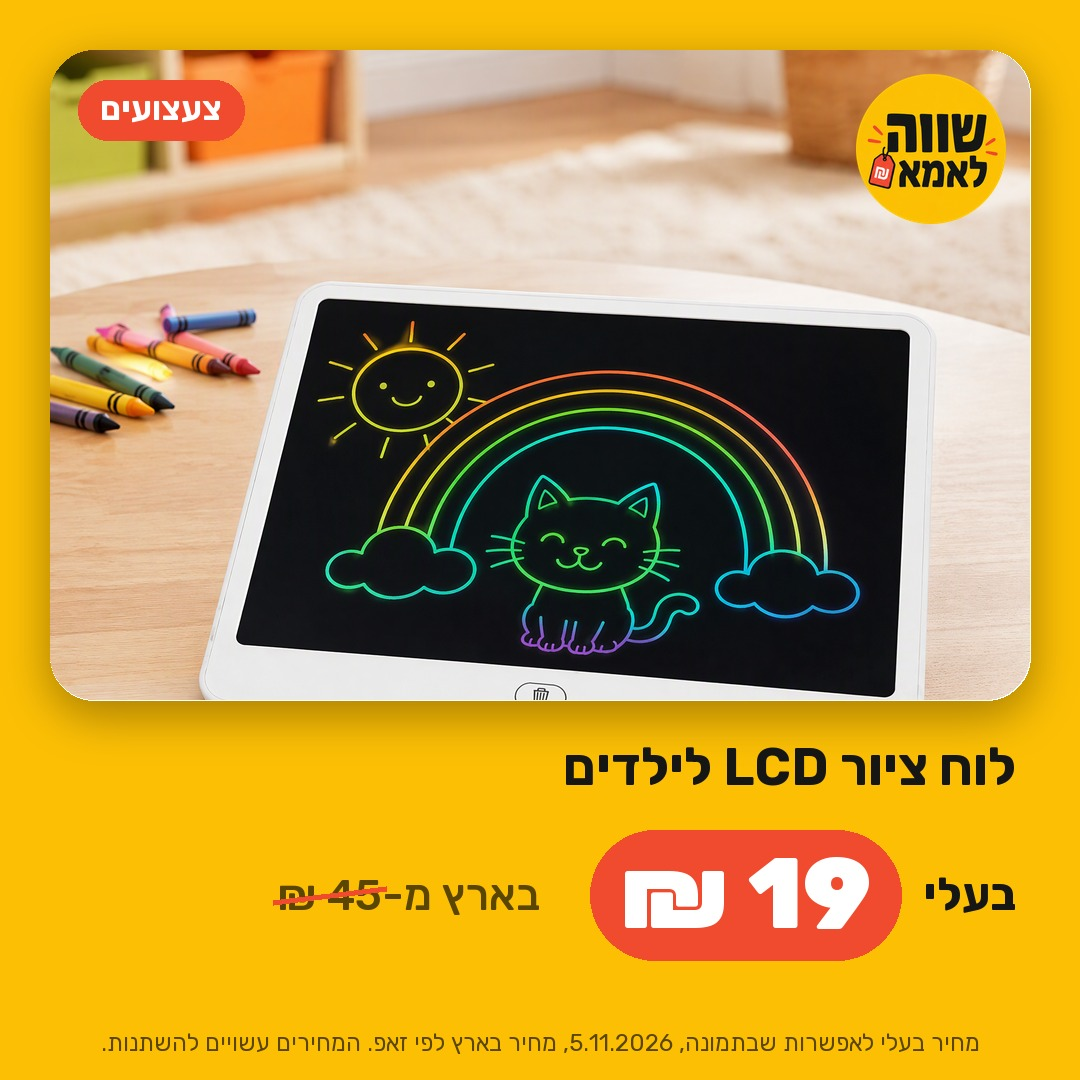
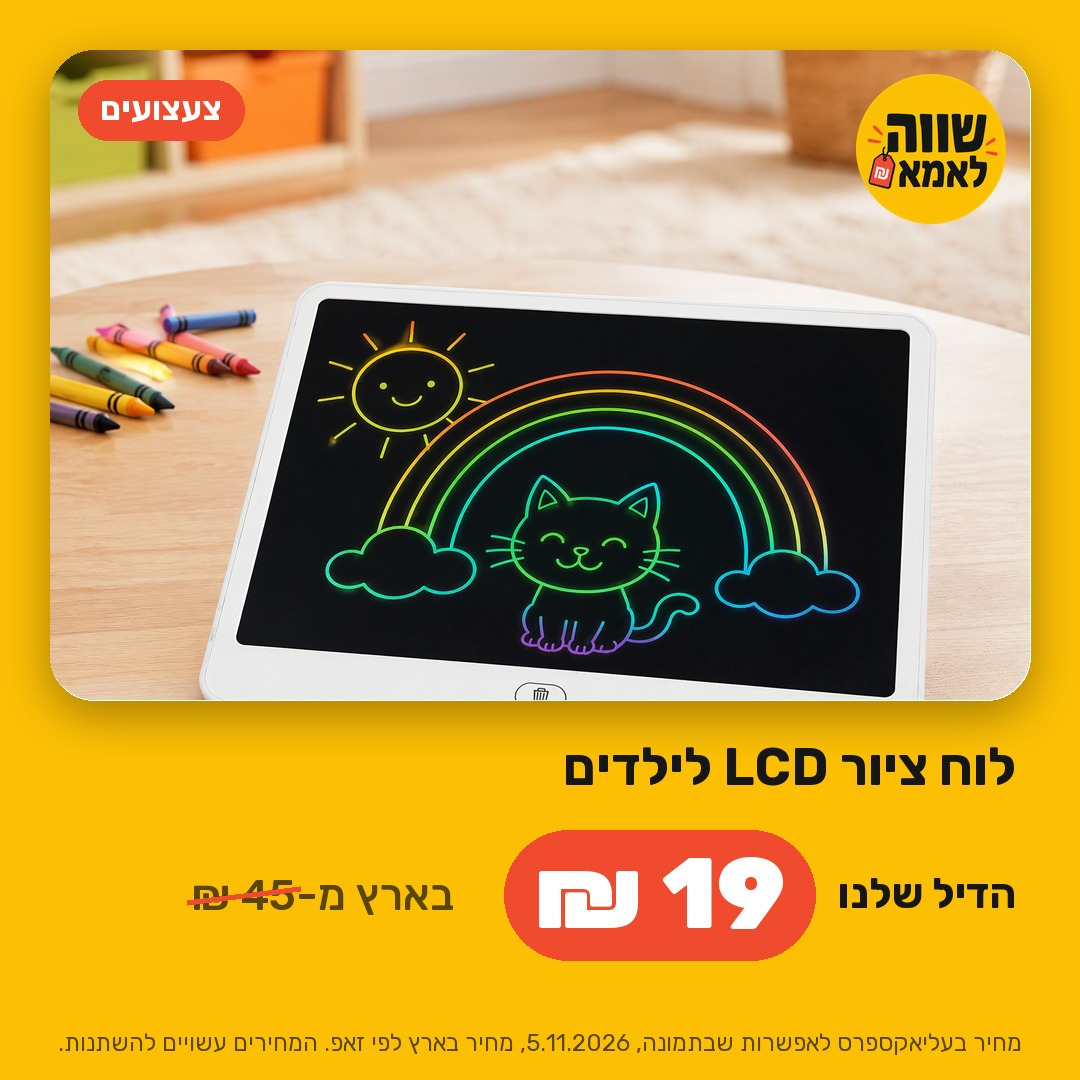
Store-neutral brand copy: הדיל שלנו instead of בעלי, generic store disclosure
Deals will also come from stores other than AliExpress. Homepage, /join, /join-b, /deals and the
/guide example post now use הדיל שלנו / אונליין; per-deal buy lines still name the real store.

Claude-Session: https://claude.ai/code/session_014xAJSXDDb9xLF4ARjncj2H

Changed region(s): [[0.1528, 0.7639, 0.9472, 0.9167], [0.0611, 0.9472, 0.9472, 0.9778]]

diff --git a/deals/index.html b/deals/index.html
@@ -1,7 +1,7 @@
 <!doctype html><html lang="he" dir="rtl"><head><meta charset="utf-8">
 <meta name="viewport" content="width=device-width,initial-scale=1,viewport-fit=cover">
 <title>כל הדילים | שווה לאמא</title>
-<meta name="description" content="כל הדילים שפרסמנו בקבוצת שווה לאמא: המחיר בארץ מול המחיר בעליאקספרס, במקום אחד.">
+<meta name="description" content="כל הדילים שפרסמנו בקבוצת שווה לאמא: המחיר בארץ מול הדיל שלנו, במקום אחד.">
 <meta name="theme-color" content="#FCBF04"><link rel="icon" href="../img/icon.png">
 <link rel="preconnect" href="https://fonts.googleapis.com"><link rel="preconnect" href="https://fonts.gstatic.com" crossorigin>
 <link rel="stylesheet" href="https://fonts.googleapis.com/css2?family=Rubik:wght@400;500;600;700;800;900&display=swap">
@@ -60,65 +60,65 @@ var h=a.getAttribute('href');if(!h||h.charAt(0)==='#'||ev.metaKey||ev.ctrlKey)re
 <main class="grid" id="grid"><article class="card" data-t="לתינוק" data-il="" data-q="מצלמת תינוק wifi שמתברגת לבית מנורה לתינוק">
 <img src="img/2026-11-08-ima-1.jpg" alt="מצלמת תינוק WiFi שמתברגת לבית מנורה" loading="lazy" width="600" height="600">
 <div class="body"><div class="meta"><span class="tag">לתינוק</span><span>פורסם 08.11</span></div>
-<h2 class="name">מצלמת תינוק WiFi שמתברגת לבית מנורה</h2><p class="il">בייבי מוניטור עם מסך בארץ: מ-249 ₪</p><p class="ali">בעלי: 27 ₪<small>מחיר רגיל לאפשרות הזולה, בזמן הפרסום</small></p>
+<h2 class="name">מצלמת תינוק WiFi שמתברגת לבית מנורה</h2><p class="il">בייבי מוניטור עם מסך בארץ: מ-249 ₪</p><p class="ali">הדיל שלנו: 27 ₪<small>מחיר רגיל לאפשרות הזולה, בזמן הפרסום</small></p>
 <details><summary>למה בחרנו ומה לבדוק</summary><p>✅ 98% ביקורות חיוביות, יותר מ-1,000 נמכרו, מעקב תנועה ודיבור דו כיווני</p><p>⚠ זו מצלמה שמתברגת לבית מנורה רגיל (E27) ועובדת דרך אפליקציה בטלפון, אין מסך נפרד כמו בבייבי מוניטור. צריך WiFi בבית.</p></details>
 <a class="buy" href="https://s.click.aliexpress.com/e/_c4DT88Fz" target="_blank" rel="sponsored nofollow noopener" data-deal="מצלמת תינוק WiFi שמתברגת לבית מנורה">לקנייה בעליאקספרס</a></div></article><article class="card" data-t="אמבטיה" data-il="" data-q="מגבת קפוצ׳ון לתינוק אמבטיה">
 <img src="img/2026-11-08-ima-2.jpg" alt="מגבת קפוצ׳ון לתינוק" loading="lazy" width="600" height="600">
 <div class="body"><div class="meta"><span class="tag">אמבטיה</span><span>פורסם 08.11</span></div>
-<h2 class="name">מגבת קפוצ׳ון לתינוק</h2><p class="il">מגבות קפוצ׳ון לתינוק בארץ: מ-68 ₪</p><p class="ali">בעלי: 20 ₪<small>מחיר רגיל לאפשרות הזולה, בזמן הפרסום</small></p>
+<h2 class="name">מגבת קפוצ׳ון לתינוק</h2><p class="il">מגבות קפוצ׳ון לתינוק בארץ: מ-68 ₪</p><p class="ali">הדיל שלנו: 20 ₪<small>מחיר רגיל לאפשרות הזולה, בזמן הפרסום</small></p>
 <details><summary>למה בחרנו ומה לבדוק</summary><p>✅ 96.8% ביקורות חיוביות, בד רך עם כובע בצורת חיה</p><p>⚠ יש כמה דגמים וגדלים, המחיר לאפשרות הזולה. לבדוק את המידה לפני שמוסיפים לעגלה.</p></details>
 <a class="buy" href="https://s.click.aliexpress.com/e/_c4oUI4vt" target="_blank" rel="sponsored nofollow noopener" data-deal="מגבת קפוצ׳ון לתינוק">לקנייה בעליאקספרס</a></div></article><article class="card" data-t="האכלה" data-il="" data-q="כוס שתייה עם קש וידיות mamijoy האכלה">
 <img src="img/2026-11-08-ima-3.jpg" alt="כוס שתייה עם קש וידיות MAMIJOY" loading="lazy" width="600" height="600">
 <div class="body"><div class="meta"><span class="tag">האכלה</span><span>פורסם 08.11</span></div>
-<h2 class="name">כוס שתייה עם קש וידיות MAMIJOY</h2><p class="il">בקבוקי שתייה לילדים בארץ: מ-55 ₪</p><p class="ali">בעלי: 15 ₪<small>מחיר רגיל לאפשרות הזולה, בזמן הפרסום</small></p>
+<h2 class="name">כוס שתייה עם קש וידיות MAMIJOY</h2><p class="il">בקבוקי שתייה לילדים בארץ: מ-55 ₪</p><p class="ali">הדיל שלנו: 15 ₪<small>מחיר רגיל לאפשרות הזולה, בזמן הפרסום</small></p>
 <details><summary>למה בחרנו ומה לבדוק</summary><p>✅ 96.3% ביקורות חיוביות, קש וידיות כפולות, אטומה לנזילות לפי היצרן</p><p>⚠ המחיר לכוס אחת בצבע הזול ביותר. את הקש שוטפים היטב אחרי כל שימוש.</p></details>
 <a class="buy" href="https://s.click.aliexpress.com/e/_c4MWbqRV" target="_blank" rel="sponsored nofollow noopener" data-deal="כוס שתייה עם קש וידיות MAMIJOY">לקנייה בעליאקספרס</a></div></article><article class="card" data-t="צעצועים" data-il="" data-q="לוח ציור lcd לילדים צעצועים">
 <img src="img/2026-11-06-ima-1.jpg" alt="לוח ציור LCD לילדים" loading="lazy" width="600" height="600">
 <div class="body"><div class="meta"><span class="tag">צעצועים</span><span>פורסם 06.11</span></div>
-<h2 class="name">לוח ציור LCD לילדים</h2><p class="il">לוח ציור אלקטרוני 8.5 אינץ׳ בארץ: מ-45 ₪</p><p class="ali">בעלי: 19 ₪<small>מחיר רגיל לאפשרות שבתמונה, בזמן הפרסום</small></p>
+<h2 class="name">לוח ציור LCD לילדים</h2><p class="il">לוח ציור אלקטרוני 8.5 אינץ׳ בארץ: מ-45 ₪</p><p class="ali">הדיל שלנו: 19 ₪<small>מחיר רגיל לאפשרות שבתמונה, בזמן הפרסום</small></p>
 <details><summary>למה בחרנו ומה לבדוק</summary><p>✅ 98% ביקורות חיוביות, יותר מ-5,500 נמכרו</p><p>⚠ 19 ₪ זה הגודל הקטן. 16 אינץ׳ עולה בערך פי שניים. מוחקים בלחיצה, אי אפשר לשמור ציור.</p></details>
 <a class="buy" href="https://s.click.aliexpress.com/e/_c2w5QAfZ" target="_blank" rel="sponsored nofollow noopener" data-deal="לוח ציור LCD לילדים">לקנייה בעליאקספרס</a></div></article><article class="card" data-t="בריאות" data-il="" data-q="שואב אף חשמלי לתינוק, 9 עוצמות בריאות">
 <img src="img/2026-11-06-ima-2.jpg" alt="שואב אף חשמלי לתינוק, 9 עוצמות" loading="lazy" width="600" height="600">
 <div class="body"><div class="meta"><span class="tag">בריאות</span><span>פורסם 06.11</span></div>
-<h2 class="name">שואב אף חשמלי לתינוק, 9 עוצמות</h2><p class="il">שואבי נזלת בארץ: 64-199 ₪</p><p class="ali">בעלי: 35 ₪<small>מחיר רגיל לאפשרות שבתמונה, בזמן הפרסום</small></p>
+<h2 class="name">שואב אף חשמלי לתינוק, 9 עוצמות</h2><p class="il">שואבי נזלת בארץ: 64-199 ₪</p><p class="ali">הדיל שלנו: 35 ₪<small>מחיר רגיל לאפשרות שבתמונה, בזמן הפרסום</small></p>
 <details><summary>למה בחרנו ומה לבדוק</summary><p>✅ 98% ביקורות חיוביות, 2 ראשי סיליקון בגדלים שונים</p><p>⚠ 35 ₪ זה הדגם הבסיסי, יש גרסה יקרה יותר. מתחילים בעוצמה נמוכה, ובכל ספק מתייעצים עם רופא הילדים.</p></details>
 <a class="buy" href="https://s.click.aliexpress.com/e/_c3KiGo9z" target="_blank" rel="sponsored nofollow noopener" data-deal="שואב אף חשמלי לתינוק, 9 עוצמות">לקנייה בעליאקספרס</a></div></article><article class="card" data-t="בריאות" data-il="" data-q="מדחום מצח אינפרא אדום ללא מגע בריאות">
 <img src="img/2026-11-06-ima-3.jpg" alt="מדחום מצח אינפרא אדום ללא מגע" loading="lazy" width="600" height="600">
 <div class="body"><div class="meta"><span class="tag">בריאות</span><span>פורסם 06.11</span></div>
-<h2 class="name">מדחום מצח אינפרא אדום ללא מגע</h2><p class="il">מדחומי מצח ללא מגע בארץ: מ-68 ₪</p><p class="ali">בעלי: 11 ₪<small>מחיר רגיל לאפשרות שבתמונה, בזמן הפרסום</small></p>
+<h2 class="name">מדחום מצח אינפרא אדום ללא מגע</h2><p class="il">מדחומי מצח ללא מגע בארץ: מ-68 ₪</p><p class="ali">הדיל שלנו: 11 ₪<small>מחיר רגיל לאפשרות שבתמונה, בזמן הפרסום</small></p>
 <details><summary>למה בחרנו ומה לבדוק</summary><p>✅ 98% ביקורות חיוביות, מודד בלי להעיר את הילד</p><p>⚠ לא מכשיר רפואי מאושר בארץ. לחום גבוה או מדידה חשובה, מאמתים במדחום רגיל.</p></details>
 <a class="buy" href="https://s.click.aliexpress.com/e/_c3k0OUAP" target="_blank" rel="sponsored nofollow noopener" data-deal="מדחום מצח אינפרא אדום ללא מגע">לקנייה בעליאקספרס</a></div></article><article class="card" data-t="לתינוק" data-il="" data-q="שק שינה עם רגליות לחורף לתינוק">
 <img src="img/2026-11-05-ima-1.jpg" alt="שק שינה עם רגליות לחורף" loading="lazy" width="600" height="600">
 <div class="body"><div class="meta"><span class="tag">לתינוק</span><span>פורסם 05.11</span></div>
-<h2 class="name">שק שינה עם רגליות לחורף</h2><p class="il">שקי שינה עם רגליות בארץ: 169-199 ₪</p><p class="ali">בעלי: 61 ₪<small>מחיר רגיל לאפשרות הזולה, בזמן הפרסום</small></p>
+<h2 class="name">שק שינה עם רגליות לחורף</h2><p class="il">שקי שינה עם רגליות בארץ: 169-199 ₪</p><p class="ali">הדיל שלנו: 61 ₪<small>מחיר רגיל לאפשרות הזולה, בזמן הפרסום</small></p>
 <details><summary>למה בחרנו ומה לבדוק</summary><p>✅ 99% ביקורות חיוביות, כמעט 300 נמכרו</p><p>⚠ 61 ₪ זה העובי הדק והמידה הקטנה (70-80 ס״מ). יש 3 עוביים, לחורף בוחרים את העבה (Thick cotton), שעולה עד כ-93 ₪ לפי מידה.</p></details>
 <a class="buy" href="https://s.click.aliexpress.com/e/_c3yUI7FZ" target="_blank" rel="sponsored nofollow noopener" data-deal="שק שינה עם רגליות לחורף">לקנייה בעליאקספרס</a></div></article><article class="card" data-t="לפעוטות" data-il="" data-q="לוח פעילות מעץ עם מתגים ואורות לפעוטות">
 <img src="img/2026-11-05-ima-2.jpg" alt="לוח פעילות מעץ עם מתגים ואורות" loading="lazy" width="600" height="600">
 <div class="body"><div class="meta"><span class="tag">לפעוטות</span><span>פורסם 05.11</span></div>
-<h2 class="name">לוח פעילות מעץ עם מתגים ואורות</h2><p class="il">לוח חושים מונטסורי בארץ: 98 ₪</p><p class="ali">בעלי: 59 ₪<small>מחיר רגיל לאפשרות הזולה, בזמן הפרסום</small></p>
+<h2 class="name">לוח פעילות מעץ עם מתגים ואורות</h2><p class="il">לוח חושים מונטסורי בארץ: 98 ₪</p><p class="ali">הדיל שלנו: 59 ₪<small>מחיר רגיל לאפשרות הזולה, בזמן הפרסום</small></p>
 <details><summary>למה בחרנו ומה לבדוק</summary><p>✅ 98% ביקורות חיוביות, כ-600 נמכרו</p><p>⚠ יש 4 דגמים, המחיר לדגם Switch Board C שבתמונה. יש חלקים קטנים, משחק בהשגחה.</p></details>
 <a class="buy" href="https://s.click.aliexpress.com/e/_c36hDhoT" target="_blank" rel="sponsored nofollow noopener" data-deal="לוח פעילות מעץ עם מתגים ואורות">לקנייה בעליאקספרס</a></div></article><article class="card" data-t="רעיון למתנה" data-il="" data-q="סט תה מעץ לילדים רעיון למתנה">
 <img src="img/2026-11-05-ima-3.jpg" alt="סט תה מעץ לילדים" loading="lazy" width="600" height="600">
 <div class="body"><div class="meta"><span class="tag">רעיון למתנה</span><span>פורסם 05.11</span></div>
-<h2 class="name">סט תה מעץ לילדים</h2><p class="il">סט תה מעץ בארץ: 135 ₪</p><p class="ali">בעלי: 46 ₪<small>מחיר רגיל לאפשרות הזולה, בזמן הפרסום</small></p>
+<h2 class="name">סט תה מעץ לילדים</h2><p class="il">סט תה מעץ בארץ: 135 ₪</p><p class="ali">הדיל שלנו: 46 ₪<small>מחיר רגיל לאפשרות הזולה, בזמן הפרסום</small></p>
 <details><summary>למה בחרנו ומה לבדוק</summary><p>✅ 98% ביקורות חיוביות, יותר מ-1,700 נמכרו</p><p>⚠ יש 3 אפשרויות, 46 ₪ זו הזולה. חלקים קטנים, לא לילדים מתחת לגיל 3.</p></details>
 <a class="buy" href="https://s.click.aliexpress.com/e/_c4EmLqLV" target="_blank" rel="sponsored nofollow noopener" data-deal="סט תה מעץ לילדים">לקנייה בעליאקספרס</a></div></article><article class="card" data-t="לאמא" data-il="" data-q="משאבת חלב לבישה, בלי ידיים לאמא">
 <img src="img/2026-11-04-ima-1.jpg" alt="משאבת חלב לבישה, בלי ידיים" loading="lazy" width="600" height="600">
 <div class="body"><div class="meta"><span class="tag">לאמא</span><span>פורסם 04.11</span></div>
-<h2 class="name">משאבת חלב לבישה, בלי ידיים</h2><p class="il">משאבות לבישות בארץ: מ-428 ₪</p><p class="ali">בעלי: 49 ₪<small>מחיר למצטרפים חדשים לעליאקספרס, בזמן הפרסום</small></p>
+<h2 class="name">משאבת חלב לבישה, בלי ידיים</h2><p class="il">משאבות לבישות בארץ: מ-428 ₪</p><p class="ali">הדיל שלנו: 49 ₪<small>מחיר למצטרפים חדשים לעליאקספרס, בזמן הפרסום</small></p>
 <details><summary>למה בחרנו ומה לבדוק</summary><p>✅ דירוג 4.6, יותר מ-10,000 נמכרו</p><p>⚠ דגם בסיסי ושקט לשאיבה מזדמנת. לא תחליף למשאבה רפואית.</p></details>
 <a class="buy" href="https://s.click.aliexpress.com/e/_c3fi8bQP" target="_blank" rel="sponsored nofollow noopener" data-deal="משאבת חלב לבישה, בלי ידיים">לקנייה בעליאקספרס</a></div></article><article class="card" data-t="לתינוק" data-il="" data-q="תיק גב להחתלה, נפח גדול לתינוק">
 <img src="img/2026-11-04-ima-2.jpg" alt="תיק גב להחתלה, נפח גדול" loading="lazy" width="600" height="600">
 <div class="body"><div class="meta"><span class="tag">לתינוק</span><span>פורסם 04.11</span></div>
-<h2 class="name">תיק גב להחתלה, נפח גדול</h2><p class="il">תיקי החתלה דומים בארץ: 116-349 ₪</p><p class="ali">בעלי: 105 ₪<small>מחיר למצטרפים חדשים לעליאקספרס, בזמן הפרסום</small></p>
+<h2 class="name">תיק גב להחתלה, נפח גדול</h2><p class="il">תיקי החתלה דומים בארץ: 116-349 ₪</p><p class="ali">הדיל שלנו: 105 ₪<small>מחיר למצטרפים חדשים לעליאקספרס, בזמן הפרסום</small></p>
 <details><summary>למה בחרנו ומה לבדוק</summary><p>✅ דירוג 4.9, נבחר בבסטסלרים של 11.11</p><p>⚠ 103 ביקורות בלבד, לבדוק מידות בתמונות לפני שקונים.</p></details>
 <a class="buy" href="https://s.click.aliexpress.com/e/_c3SnXHOP" target="_blank" rel="sponsored nofollow noopener" data-deal="תיק גב להחתלה, נפח גדול">לקנייה בעליאקספרס</a></div></article><article class="card" data-t="לילדים" data-il="" data-q="מיקרוסקופ דיגיטלי לילדים עם מסך לילדים">
 <img src="img/2026-11-04-ima-3.jpg" alt="מיקרוסקופ דיגיטלי לילדים עם מסך" loading="lazy" width="600" height="600">
 <div class="body"><div class="meta"><span class="tag">לילדים</span><span>פורסם 04.11</span></div>
-<h2 class="name">מיקרוסקופ דיגיטלי לילדים עם מסך</h2><p class="il">בארץ: 165 ₪</p><p class="ali">בעלי: 24 ₪<small>מחיר למצטרפים חדשים לעליאקספרס, בזמן הפרסום</small></p>
+<h2 class="name">מיקרוסקופ דיגיטלי לילדים עם מסך</h2><p class="il">בארץ: 165 ₪</p><p class="ali">הדיל שלנו: 24 ₪<small>מחיר למצטרפים חדשים לעליאקספרס, בזמן הפרסום</small></p>
 <details><summary>למה בחרנו ומה לבדוק</summary><p>✅ דירוג 4.9, יותר מ-10,000 נמכרו</p><p>⚠ לילדים גדולים, לא לפעוטות. סוללה נטענת מובנית.</p></details>
 <a class="buy" href="https://s.click.aliexpress.com/e/_c4Ni88Kj" target="_blank" rel="sponsored nofollow noopener" data-deal="מיקרוסקופ דיגיטלי לילדים עם מסך">לקנייה בעליאקספרס</a></div></article><p class="empty" id="empty" hidden>לא מצאנו מוצר כזה. נסו מילה אחרת.</p></main>
-<footer><p>המחירים נכונים ליום הפרסום ועשויים להשתנות. הקנייה נעשית ישירות מול עליאקספרס והמוכרים, ואנחנו לא אחראים על המוצרים, המשלוח או השירות. הקישורים הם קישורי שותפים.</p></footer>
+<footer><p>המחירים נכונים ליום הפרסום ועשויים להשתנות. הקנייה נעשית ישירות מול החנות שבקישור והמוכרים, ואנחנו לא אחראים על המוצרים, המשלוח או השירות. הקישורים הם קישורי שותפים.</p></footer>
 <script>
 (function(){var q=document.getElementById('q'),cards=[].slice.call(document.querySelectorAll('.card')),t='',empty=document.getElementById('empty');
 function f(){var s=q.value.trim().toLowerCase(),n=0;cards.forEach(function(c){var ok=(!t||(t==='__il'?c.dataset.il==='1':c.dataset.t===t))&&(!s||c.dataset.q.indexOf(s)>-1);c.hidden=!ok;if(ok)n++});empty.hidden=n>0}

diff --git a/index.html b/index.html
@@ -4,9 +4,9 @@
 <meta charset="utf-8">
 <meta name="viewport" content="width=device-width,initial-scale=1,viewport-fit=cover">
 <title>שווה לאמא | מציאות לאמהות, תינוקות וילדים</title>
-<meta name="description" content="דילים מעליאקספרס: המוצרים הכי שווים במחירים הכי טובים. קהילת וואטסאפ חינמית.">
+<meta name="description" content="דילים אונליין: המוצרים הכי שווים במחירים הכי טובים. קהילת וואטסאפ חינמית.">
 <meta property="og:title" content="שווה לאמא | מציאות לאמהות, תינוקות וילדים">
-<meta property="og:description" content="דילים מעליאקספרס: המוצרים הכי שווים במחירים הכי טובים">
+<meta property="og:description" content="דילים אונליין: המוצרים הכי שווים במחירים הכי טובים">
 <meta property="og:image" content="img/og.jpg">
 <meta property="og:type" content="website">
 <meta name="theme-color" content="#FCBF04">
@@ -84,7 +84,7 @@ var h=a.getAttribute('href');if(!h||h.charAt(0)==='#'||ev.metaKey||ev.ctrlKey)re
     <div>
       <img class="logo" src="img/logo.png" alt="שווה לאמא" width="120" height="120">
       <h1>מציאות לאמהות, תינוקות וילדים</h1>
-      <p class="sub">דילים מעליאקספרס: המוצרים הכי שווים במחירים הכי טובים</p>
+      <p class="sub">דילים אונליין: המוצרים הכי שווים במחירים הכי טובים</p>
       <a class="btn" href="https://chat.whatsapp.com/DiWkfT10aMA1jx6AGPUe32" rel="noopener" data-join><svg viewBox="0 0 32 32" aria-hidden="true"><path fill="currentColor" d="M16 3a13 13 0 0 0-11.2 19.6L3 29l6.6-1.7A13 13 0 1 0 16 3zm0 23.6c-2 0-4-.5-5.7-1.6l-.4-.2-3.9 1 1-3.8-.3-.4A10.6 10.6 0 1 1 16 26.6zm5.8-7.9c-.3-.2-1.9-.9-2.2-1-.3-.1-.5-.2-.7.2l-1 1.2c-.2.2-.4.2-.7.1a8.7 8.7 0 0 1-4.3-3.8c-.3-.6.3-.5.9-1.7.1-.2 0-.4 0-.6l-1-2.4c-.3-.6-.5-.5-.7-.5h-.6c-.2 0-.6.1-.9.4-.3.3-1.2 1.2-1.2 2.9s1.2 3.3 1.4 3.6c.2.2 2.4 3.7 5.8 5.2 2.2.9 3 1 4.1.8.7-.1 1.9-.8 2.2-1.6.3-.8.3-1.4.2-1.6-.1-.1-.3-.2-.6-.3z"/></svg><span>הצטרפי לקהילה בחינם</span></a>
       <p class="micro">בחינם · בלי הרשמה · אפשר לצאת בכל רגע</p>
     </div>
@@ -97,7 +97,7 @@ var h=a.getAttribute('href');if(!h||h.charAt(0)==='#'||ev.metaKey||ev.ctrlKey)re
     <h2>מה מקבלים בקהילה</h2>
     <div class="cards">
       <div class="card"><b>דילים נבחרים</b><p>מוצרים עם דירוג גבוה וביקורות טובות של קונים, בלי לחפש שעות.</p></div>
-      <div class="card"><b>בארץ מול בעלי</b><p>ליד כל מוצר המחיר בארץ והמחיר בעלי, כדי לראות כמה זה באמת חוסך.</p></div>
+      <div class="card"><b>בארץ מול הדיל שלנו</b><p>ליד כל מוצר המחיר בארץ ומחיר הדיל שלנו, כדי לראות כמה זה באמת חוסך.</p></div>
       <div class="card"><b>גם מה פחות טוב</b><p>בכל פוסט שורת "שימו לב": מידות, משלוח, מה לא כלול. בלי הפתעות.</p></div>
     </div>
   </section>
@@ -113,7 +113,7 @@ var h=a.getAttribute('href');if(!h||h.charAt(0)==='#'||ev.metaKey||ev.ctrlKey)re
 מנשא תינוק ארגונומי
 
 בארץ: 349 ₪
-בעלי: 112 ₪
+הדיל שלנו: 112 ₪
 
 ✅ למה בחרנו: דירוג 4.8, אלפי קונות, תמונות קונות טובות
 ⚠ שימו לב: כבד יחסית, מתאים להליכות קצרות
@@ -125,27 +125,27 @@ var h=a.getAttribute('href');if(!h||h.charAt(0)==='#'||ev.metaKey||ev.ctrlKey)re
     <div class="steps">
       <div class="step"><b>מצטרפת בלחיצה</b><p>קישור אחד לקהילה בוואטסאפ, בלי טפסים.</p></div>
       <div class="step"><b>מקבלים דילים</b><p>הדילים מגיעים ישר לוואטסאפ, ורק המנהלים כותבים.</p></div>
-      <div class="step"><b>קונה ישר מעליאקספרס</b><p>הקנייה עצמה בעליאקספרס, באותו מחיר.</p></div>
+      <div class="step"><b>קונה ישר מהחנות</b><p>הקנייה עצמה נעשית בחנות שבקישור, באותו מחיר.</p></div>
     </div>
   </section>
 
   <section>
     <h2>שאלות נפוצות</h2>
     <details><summary>זה עולה כסף?</summary><p>לא. ההצטרפות חינמית, ואפשר לצאת בכל רגע.</p></details>
-    <details><summary>איך אתם מרוויחים?</summary><p>הקישורים בקהילה ובאתר הם קישורי שותפים. כשקונים דרכם אנחנו מקבלים עמלה קטנה מעליאקספרס, והמחיר לכם לא משתנה.</p></details>
-    <details><summary>יש מכס או מע״מ?</summary><p>הזמנה עד 75 דולר פטורה ממכס וממע״מ. מעל זה משלמים מע״מ על כל החבילה, אז כדאי לפצל הזמנות גדולות.</p></details>
-    <details><summary>כמה זמן לוקח משלוח?</summary><p>זה תלוי במוכר ובשיטת המשלוח שבוחרים בעליאקספרס, ומופיע בעמוד המוצר לפני התשלום.</p></details>
+    <details><summary>איך אתם מרוויחים?</summary><p>הקישורים בקהילה ובאתר הם קישורי שותפים. הקנייה נעשית ישירות מול החנות שבקישור, וכשקונים דרכם אנחנו מקבלים ממנה עמלה קטנה. המחיר לכם לא משתנה.</p></details>
+    <details><summary>יש מכס או מע״מ?</summary><p>בהזמנה מחו״ל, עד 75 דולר פטור ממכס וממע״מ. מעל זה משלמים מע״מ על כל החבילה, אז כדאי לפצל הזמנות גדולות.</p></details>
+    <details><summary>כמה זמן לוקח משלוח?</summary><p>זה תלוי בחנות, במוכר ובשיטת המשלוח שבוחרים, ומופיע בעמוד המוצר לפני התשלום.</p></details>
   </section>
 
   <section class="final" id="join">
     <img class="logo" src="img/logo.png" alt="" width="120" height="120">
-    <h2>דילים מעליאקספרס: המוצרים הכי שווים במחירים הכי טובים</h2>
+    <h2>דילים אונליין: המוצרים הכי שווים במחירים הכי טובים</h2>
     <a class="btn" href="https://chat.whatsapp.com/DiWkfT10aMA1jx6AGPUe32" rel="noopener" data-join><svg viewBox="0 0 32 32" aria-hidden="true"><path fill="currentColor" d="M16 3a13 13 0 0 0-11.2 19.6L3 29l6.6-1.7A13 13 0 1 0 16 3zm0 23.6c-2 0-4-.5-5.7-1.6l-.4-.2-3.9 1 1-3.8-.3-.4A10.6 10.6 0 1 1 16 26.6zm5.8-7.9c-.3-.2-1.9-.9-2.2-1-.3-.1-.5-.2-.7.2l-1 1.2c-.2.2-.4.2-.7.1a8.7 8.7 0 0 1-4.3-3.8c-.3-.6.3-.5.9-1.7.1-.2 0-.4 0-.6l-1-2.4c-.3-.6-.5-.5-.7-.5h-.6c-.2 0-.6.1-.9.4-.3.3-1.2 1.2-1.2 2.9s1.2 3.3 1.4 3.6c.2.2 2.4 3.7 5.8 5.2 2.2.9 3 1 4.1.8.7-.1 1.9-.8 2.2-1.6.3-.8.3-1.4.2-1.6-.1-.1-.3-.2-.6-.3z"/></svg><span>הצטרפי לקהילה בחינם</span></a>
   </section>
 
   <footer>
-    <p><b>שווה לאמא</b> · הקישורים בקהילה ובאתר הם קישורי שותפים. כשקונים דרכם אנחנו מקבלים עמלה קטנה מעליאקספרס, והמחיר לכם לא משתנה.</p>
-    <p>האתר אינו קשור לעליאקספרס ואינו מטעמה. המחירים והמבצעים נקבעים על ידי המוכרים ועשויים להשתנות.</p>
+    <p><b>שווה לאמא</b> · הקישורים בקהילה ובאתר הם קישורי שותפים. הקנייה נעשית ישירות מול החנות שבקישור, וכשקונים דרכם אנחנו מקבלים ממנה עמלה קטנה. המחיר לכם לא משתנה.</p>
+    <p>האתר אינו קשור לחנויות שבקישורים ואינו פועל מטעמן. המחירים והמבצעים נקבעים על ידי המוכרים ועשויים להשתנות.</p>
     <p>פרטיות: האתר לא אוסף פרטים אישיים כמו שם או טלפון. אנחנו משתמשים בפיקסל של מטא כדי למדוד ביקורים ולחיצות על כפתור ההצטרפות, ולשפר את הפרסום שלנו.</p>
     <p>יצירת קשר: <a href="mailto:aliexpressdeals53@gmail.com">aliexpressdeals53@gmail.com</a></p>
   </footer>

diff --git a/join/index.html b/join/index.html
@@ -5,7 +5,7 @@
 <meta name="viewport" content="width=device-width,initial-scale=1,viewport-fit=cover">
 <title>שווה לאמא | הצטרפות לקהילה</title>
 <meta name="robots" content="noindex">
-<meta name="description" content="דילים מעליאקספרס: המוצרים הכי שווים במחירים הכי טובים">
+<meta name="description" content="דילים אונליין: המוצרים הכי שווים במחירים הכי טובים">
 <meta property="og:title" content="שווה לאמא">
 <meta property="og:image" content="../img/og.jpg">
 <meta name="theme-color" content="#FCBF04">
@@ -65,9 +65,9 @@ var h=a.getAttribute('href');if(!h||h.charAt(0)==='#'||ev.metaKey||ev.ctrlKey)re
 <main class="card">
   <img class="logo" src="../img/logo.png" alt="שווה לאמא" width="150" height="150">
   <h1>מחפשת מוצרים לך, לתינוק ולילדים במחיר של חו״ל?</h1>
-  <p class="lead">הצטרפי ל<b>שווה לאמא</b>, קהילת וואטסאפ שקטה עם הדילים הכי שווים מעליאקספרס.</p>
+  <p class="lead">הצטרפי ל<b>שווה לאמא</b>, קהילת וואטסאפ שקטה עם הדילים הכי שווים אונליין.</p>
   <p class="find">בקהילה תמצאי:</p>
-  <ul><li><svg viewBox="0 0 24 24" aria-hidden="true"><circle cx="12" cy="12" r="12" fill="var(--accent)"/><path d="M7 12.5l3.2 3.2L17 9" fill="none" stroke="#fff" stroke-width="2.6" stroke-linecap="round" stroke-linejoin="round"/></svg><span>מוצרים לאמא: היריון, הנקה וטיפוח</span></li><li><svg viewBox="0 0 24 24" aria-hidden="true"><circle cx="12" cy="12" r="12" fill="var(--accent)"/><path d="M7 12.5l3.2 3.2L17 9" fill="none" stroke="#fff" stroke-width="2.6" stroke-linecap="round" stroke-linejoin="round"/></svg><span>ציוד לתינוק: עגלות, מנשאים, מוניטורים</span></li><li><svg viewBox="0 0 24 24" aria-hidden="true"><circle cx="12" cy="12" r="12" fill="var(--accent)"/><path d="M7 12.5l3.2 3.2L17 9" fill="none" stroke="#fff" stroke-width="2.6" stroke-linecap="round" stroke-linejoin="round"/></svg><span>בגדים, צעצועים ומשחקים לילדים</span></li><li><svg viewBox="0 0 24 24" aria-hidden="true"><circle cx="12" cy="12" r="12" fill="var(--accent)"/><path d="M7 12.5l3.2 3.2L17 9" fill="none" stroke="#fff" stroke-width="2.6" stroke-linecap="round" stroke-linejoin="round"/></svg><span>ליד כל דיל: המחיר בארץ מול המחיר בעלי</span></li><li><svg viewBox="0 0 24 24" aria-hidden="true"><circle cx="12" cy="12" r="12" fill="var(--accent)"/><path d="M7 12.5l3.2 3.2L17 9" fill="none" stroke="#fff" stroke-width="2.6" stroke-linecap="round" stroke-linejoin="round"/></svg><span>קופונים ומבצעים חמים, בלי לחפש</span></li></ul>
+  <ul><li><svg viewBox="0 0 24 24" aria-hidden="true"><circle cx="12" cy="12" r="12" fill="var(--accent)"/><path d="M7 12.5l3.2 3.2L17 9" fill="none" stroke="#fff" stroke-width="2.6" stroke-linecap="round" stroke-linejoin="round"/></svg><span>מוצרים לאמא: היריון, הנקה וטיפוח</span></li><li><svg viewBox="0 0 24 24" aria-hidden="true"><circle cx="12" cy="12" r="12" fill="var(--accent)"/><path d="M7 12.5l3.2 3.2L17 9" fill="none" stroke="#fff" stroke-width="2.6" stroke-linecap="round" stroke-linejoin="round"/></svg><span>ציוד לתינוק: עגלות, מנשאים, מוניטורים</span></li><li><svg viewBox="0 0 24 24" aria-hidden="true"><circle cx="12" cy="12" r="12" fill="var(--accent)"/><path d="M7 12.5l3.2 3.2L17 9" fill="none" stroke="#fff" stroke-width="2.6" stroke-linecap="round" stroke-linejoin="round"/></svg><span>בגדים, צעצועים ומשחקים לילדים</span></li><li><svg viewBox="0 0 24 24" aria-hidden="true"><circle cx="12" cy="12" r="12" fill="var(--accent)"/><path d="M7 12.5l3.2 3.2L17 9" fill="none" stroke="#fff" stroke-width="2.6" stroke-linecap="round" stroke-linejoin="round"/></svg><span>ליד כל דיל: המחיר בארץ מול הדיל שלנו</span></li><li><svg viewBox="0 0 24 24" aria-hidden="true"><circle cx="12" cy="12" r="12" fill="var(--accent)"/><path d="M7 12.5l3.2 3.2L17 9" fill="none" stroke="#fff" stroke-width="2.6" stroke-linecap="round" stroke-linejoin="round"/></svg><span>קופונים ומבצעים חמים, בלי לחפש</span></li></ul>
   <p class="quiet">🔇 קבוצה שקטה – בלי חפירות. רק דילים והמלצות.</p>
   <a class="go" href="https://chat.whatsapp.com/DiWkfT10aMA1jx6AGPUe32" rel="noopener" data-join><svg viewBox="0 0 32 32" aria-hidden="true"><path fill="currentColor" d="M16 3a13 13 0 0 0-11.2 19.6L3 29l6.6-1.7A13 13 0 1 0 16 3zm0 23.6c-2 0-4-.5-5.7-1.6l-.4-.2-3.9 1 1-3.8-.3-.4A10.6 10.6 0 1 1 16 26.6zm5.8-7.9c-.3-.2-1.9-.9-2.2-1-.3-.1-.5-.2-.7.2l-1 1.2c-.2.2-.4.2-.7.1a8.7 8.7 0 0 1-4.3-3.8c-.3-.6.3-.5.9-1.7.1-.2 0-.4 0-.6l-1-2.4c-.3-.6-.5-.5-.7-.5h-.6c-.2 0-.6.1-.9.4-.3.3-1.2 1.2-1.2 2.9s1.2 3.3 1.4 3.6c.2.2 2.4 3.7 5.8 5.2 2.2.9 3 1 4.1.8.7-.1 1.9-.8 2.2-1.6.3-.8.3-1.4.2-1.6-.1-.1-.3-.2-.6-.3z"/></svg><span>הצטרפי לקהילה</span></a>
   <p class="micro">בחינם · אפשר לצאת בכל רגע</p>

diff --git a/join-b/index.html b/join-b/index.html
@@ -1,8 +1,4 @@
-<!doctype html><html lang="he" dir="rtl"><head>
-<!-- Google tag (GA4) -->
-<script async src="https://www.googletagmanager.com/gtm.js?id=GTM-KSTKHQN8"></script>
-<script>window.dataLayer=window.dataLayer||[];function gtag(){dataLayer.push(arguments)}gtag('js',new Date());</script>
-<meta charset="utf-8">
+<!doctype html><html lang="he" dir="rtl"><head><meta charset="utf-8">
 <meta name="viewport" content="width=device-width,initial-scale=1,viewport-fit=cover">
 <title>שווה לאמא | הצטרפות</title><meta name="robots" content="noindex">
 <link rel="preconnect" href="https://fonts.googleapis.com"><link rel="preconnect" href="https://fonts.gstatic.com" crossorigin>
@@ -34,13 +30,16 @@ h1{font:900 clamp(26px,7vw,34px)/1.15 "Rubik",sans-serif;margin:12px 0 6px;text-
 .hintbox div{background:#fff;border-radius:18px;padding:22px;max-width:340px;text-align:center;font:600 18px/1.45 "Rubik",sans-serif}
 .hintbox a{display:block;margin-top:12px;font-size:15px;color:#1fa855}
 </style>
+<!-- Google tag (GA4) -->
+<script async src="https://www.googletagmanager.com/gtm.js?id=GTM-KSTKHQN8"></script>
+<script>window.dataLayer=window.dataLayer||[];function gtag(){dataLayer.push(arguments)}gtag('js',new Date());</script>
 <!-- Meta Pixel -->
 <script>!function(f,b,e,v,n,t,s){if(f.fbq)return;n=f.fbq=function(){n.callMethod?n.callMethod.apply(n,arguments):n.queue.push(arguments)};if(!f._fbq)f._fbq=n;n.push=n;n.loaded=!0;n.version='2.0';n.queue=[];t=b.createElement(e);t.async=!0;t.src=v;s=b.getElementsByTagName(e)[0];s.parentNode.insertBefore(t,s)}(window,document,'script','https://connect.facebook.net/en_US/fbevents.js');
 fbq('init','1895010951663413');fbq('track','PageView');fbq('trackCustom','JoinViewB');
 </script><noscript><img height="1" width="1" style="display:none" src="https://www.facebook.com/tr?id=1895010951663413&ev=PageView&noscript=1"/></noscript>
 </head><body>
 <header class="top"><div class="brand"><img src="img/logo.png" alt="">שווה לאמא</div>
-<h1>דילים לתינוק ולילדים, במחיר של חו״ל</h1><p class="sub">דילים מעליאקספרס כל יום, ישר לוואטסאפ. ליד כל דיל: המחיר בארץ מול המחיר בעלי.</p><a class="go" href="https://chat.whatsapp.com/DiWkfT10aMA1jx6AGPUe32" data-join><svg viewBox="0 0 32 32" aria-hidden="true"><path fill="currentColor" d="M16 3a13 13 0 0 0-11.2 19.6L3 29l6.6-1.7A13 13 0 1 0 16 3zm0 23.6c-2 0-4-.5-5.7-1.6l-.4-.2-3.9 1 1-3.8-.3-.4A10.6 10.6 0 1 1 16 26.6zm5.8-7.9c-.3-.2-1.9-.9-2.2-1-.3-.1-.5-.2-.7.2l-1 1.2c-.2.2-.4.2-.7.1a8.7 8.7 0 0 1-4.3-3.8c-.3-.6.3-.5.9-1.7.1-.2 0-.4 0-.6l-1-2.4c-.3-.6-.5-.5-.7-.5h-.6c-.2 0-.6.1-.9.4-.3.3-1.2 1.2-1.2 2.9s1.2 3.3 1.4 3.6c.2.2 2.4 3.7 5.8 5.2 2.2.9 3 1 4.1.8.7-.1 1.9-.8 2.2-1.6.3-.8.3-1.4.2-1.6-.1-.1-.3-.2-.6-.3z"/></svg><span>הצטרפי לקבוצה בחינם</span></a>
+<h1>דילים לתינוק ולילדים, במחיר של חו״ל</h1><p class="sub">דילים שווים אונליין, ישר לוואטסאפ. ליד כל דיל: המחיר בארץ מול הדיל שלנו.</p><a class="go" href="https://chat.whatsapp.com/DiWkfT10aMA1jx6AGPUe32" data-join><svg viewBox="0 0 32 32" aria-hidden="true"><path fill="currentColor" d="M16 3a13 13 0 0 0-11.2 19.6L3 29l6.6-1.7A13 13 0 1 0 16 3zm0 23.6c-2 0-4-.5-5.7-1.6l-.4-.2-3.9 1 1-3.8-.3-.4A10.6 10.6 0 1 1 16 26.6zm5.8-7.9c-.3-.2-1.9-.9-2.2-1-.3-.1-.5-.2-.7.2l-1 1.2c-.2.2-.4.2-.7.1a8.7 8.7 0 0 1-4.3-3.8c-.3-.6.3-.5.9-1.7.1-.2 0-.4 0-.6l-1-2.4c-.3-.6-.5-.5-.7-.5h-.6c-.2 0-.6.1-.9.4-.3.3-1.2 1.2-1.2 2.9s1.2 3.3 1.4 3.6c.2.2 2.4 3.7 5.8 5.2 2.2.9 3 1 4.1.8.7-.1 1.9-.8 2.2-1.6.3-.8.3-1.4.2-1.6-.1-.1-.3-.2-.6-.3z"/></svg><span>הצטרפי לקבוצה בחינם</span></a>
 <p class="trust"><span>✓ בחינם</span><span>✓ בלי ספאם</span><span>✓ יוצאים בלחיצה</span></p></header>
 <section class="deals"><h2>ככה נראים הדילים אצלנו</h2><div class="grid"><img src="img/ima-1.jpg" alt="" loading="lazy" width="360" height="360"><img src="img/ima-2.jpg" alt="" loading="lazy" width="360" height="360"><img src="img/ima-3.jpg" alt="" loading="lazy" width="360" height="360"></div>
 <p class="note">דילים אמיתיים מהשבוע מהקבוצה. המחירים נכונים ליום הפרסום.</p>

diff --git a/guide/index.html b/guide/index.html
@@ -1,6 +1,10 @@
 <!doctype html>
 <html lang="he" dir="rtl">
 <head>
+<!-- Google tag (GA4) -->
+<script async src="https://www.googletagmanager.com/gtm.js?id=GTM-KSTKHQN8"></script>
+<script>window.dataLayer=window.dataLayer||[];function gtag(){dataLayer.push(arguments)}gtag('js',new Date());</script>
+
 <meta charset="utf-8">
 <meta name="viewport" content="width=device-width,initial-scale=1,viewport-fit=cover">
 <title>מדריך קנייה בעליאקספרס | שווה לאמא</title>
@@ -149,7 +153,7 @@ footer{text-align:center;margin-top:26px;font-size:14px;color:#666}
 <div class="wa">מנשא תינוק ארגונומי
 
 בארץ: 349 ₪
-בעלי: 112 ₪
+הדיל שלנו: 112 ₪
 
 ✅ למה בחרנו: דירוג גבוה, הרבה קונים
 👈 <a>לקישור</a></div>
